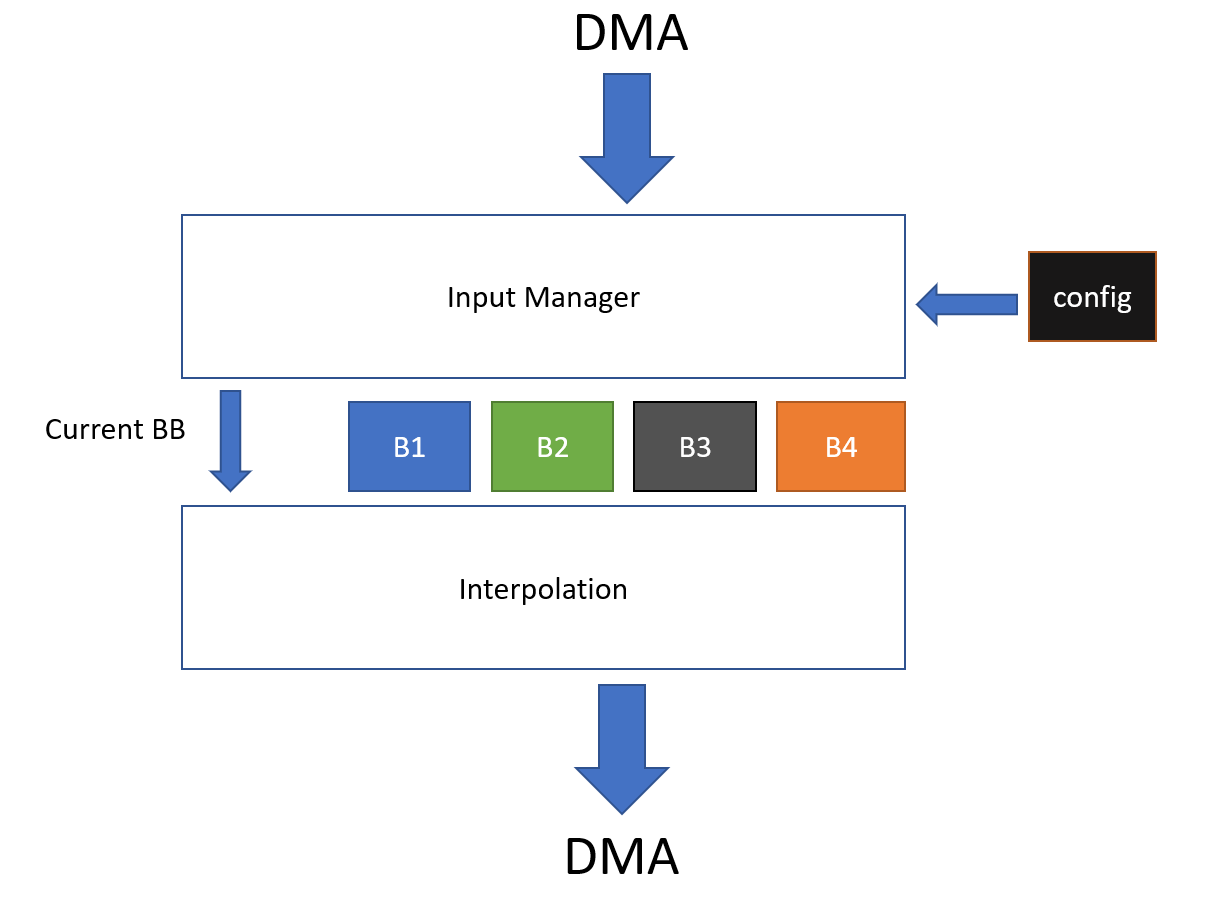
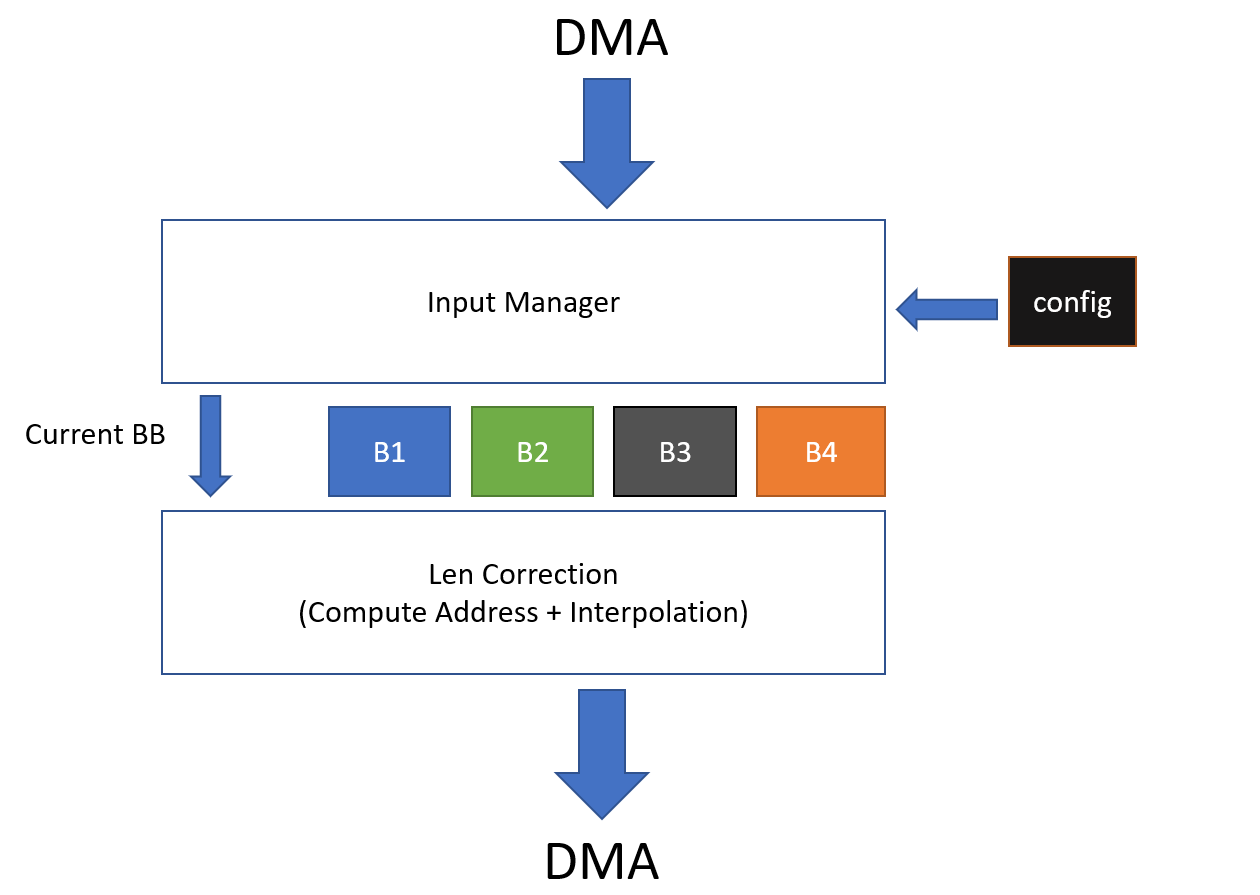
add len correction hls

diff --git a/vr_projection/len_correction_hls/len_correction_tb.cpp b/vr_projection/len_correction_hls/len_correction_tb.cpp
@@ -1,0 +1,221 @@
+#include <cmath>    // 对于 fabs
+#include <iostream>
+#include <fstream>
+#include <string>
+
+
+// #define FP32
+// #ifdef FP32
+#include "tile_color_optimizer_func.h"
+// #else
+// 	#include "tile_color_optimizer_func_fix.h"
+// #endif
+
+template<typename T>
+void load(hls::stream<T> &s, int load_num, std::ifstream &ifdata)
+{
+	// std::cout << " ...loading: " + dname << std::endl;
+//    assert(!data.fail());
+
+    int loaded_num = 0;
+    while(!ifdata.eof())
+    {
+        std::string line;
+        std::getline(ifdata, line);
+    //    std::cout << line << std::endl;
+
+        // std::cout << "line: " << line << std::endl;
+        float d=0;
+        if (line == "\n") {
+            std::cout << "Meet final \n" << std::endl;
+            break;
+        } else {
+            d = std::stof(line);
+        }
+        // std::cout << "d: " << d << std::endl;
+
+
+        // std::cout << "T(d): " << T(d) << std::endl;
+
+
+        s.write(T(d));
+        loaded_num = loaded_num + 1;
+        if(loaded_num == load_num) 
+            break;
+    }
+
+
+    assert(loaded_num == load_num);
+};
+
+int main()
+{
+
+    int image_tiles_num = 100;
+    int tile_num_one_time = 1;
+    std::ifstream ifa, ifb, ifc, ifd, ifk, ifl, ifref;
+    ifa.open("dump/a0.txt");
+    ifb.open("dump/b0.txt");
+    ifc.open("dump/c0.txt");
+    ifd.open("dump/d0.txt");
+    ifk.open("dump/k0.txt");
+    ifl.open("dump/l0.txt");
+    ifref.open("dump/ref0.txt");
+
+    std::ofstream hw_out;
+    #ifdef HW_COSIM
+        hw_out.open("dump/cosim_hw_out.txt", std::ios::out | std::ios::trunc);
+    #else
+        hw_out.open("dump/csim_hw_out.txt", std::ios::out | std::ios::trunc);
+    #endif
+
+    float acc_err = 0;
+    int count = 0;
+    float max_err = 0;
+    int max_ti = 0;  
+
+    for (int ti = 0; ti < image_tiles_num; ti+=tile_num_one_time) {
+        if (ti % 100 == 0)
+        {
+            std::cout << "progress: " << float(ti) / float(image_tiles_num) << std::endl;
+            std::cout << "current max_err: " << float(max_err) << std::endl;
+            std::cout << "current avg_err: " << acc_err / float(count) << std::endl;
+        }
+
+        hls::stream<abc_t> as("as"), bs("bs"), cs("cs");
+        hls::stream<dkl_t>  ds("ds"), ks("ks"), ls("ls");
+        hls::stream<rgb_t> ref("ref");
+        load(as, tile_num_one_time*4*4, ifa);
+        load(bs, tile_num_one_time*4*4, ifb);
+        load(cs, tile_num_one_time*4*4, ifc);
+        load(ds, tile_num_one_time*4*4, ifd);
+        load(ks, tile_num_one_time*4*4, ifk);
+        load(ls, tile_num_one_time*4*4, ifl);
+        load(ref, tile_num_one_time*4*4*3, ifref);
+
+        // Call Hardware
+        hls::stream<agg_inputs> is("is");
+        hls::stream<agg_outputs_srgb> os("os");
+
+        //Construct input
+        for(int i = 0; i < tile_num_one_time; i++)
+        {
+            agg_inputs in;
+            for(int j = 0; j < 16; j++)
+            {
+                in.as[j] = as.read();
+                // std::cout << "in.as[j]: " << in.as[j] << std::endl;
+                in.bs[j] = bs.read();
+                in.cs[j] = cs.read();
+                in.ds[j] = ds.read();
+                in.ks[j] = ks.read();
+                in.ls[j] = ls.read();
+            }
+            // print ins every bits
+            // print bits of as
+            // for(int i = 0; i < 16; i++)
+            // {
+            //     std::cout << "as: "<< in.as[i] << " " << in.as[i].range(15, 0) << " ";
+            // }
+            // std::cout << std::endl;
+            // for(int i = 0; i < 16; i++)
+            // {
+            //     std::cout << "bs: " << in.bs[i] << " " << in.bs[i].range(15, 0) << " ";
+            // }
+            // std::cout << std::endl;
+            // for(int i = 0; i < 16; i++)
+            // {
+            //     std::cout << "cs: " << in.cs[i] << " "<< in.cs[i].range(15, 0) << " ";
+            // }
+            // std::cout << std::endl;
+            // for(int i = 0; i < 16; i++)
+            // {
+            //     std::cout << "ds: " << in.ds[i] << " " << in.ds[i].range(15, 0) << " ";
+            // }
+            // std::cout << std::endl;
+            // for(int i = 0; i < 16; i++)
+            // {
+            //     std::cout << "ks: " << in.ks[i] << " "<< in.ks[i].range(15, 0) << " ";
+            // }
+            // std::cout << std::endl;
+            // for(int i = 0; i < 16; i++)
+            // {
+            //     std::cout << "ls: " << in.ls[i] << " "<< in.ls[i].range(15, 0) << " ";
+            // }
+            // std::cout << std::endl;
+
+            is.write(in);
+        } // end
+
+
+        // Call the top function
+        // if (ti == 363){
+            for (int i = 0; i < tile_num_one_time; i++)
+        {
+            tile_color_optimizer_func(os, is);
+        }
+        // }
+
+        // std::cout << "os.size(): " << os.size() << std::endl;
+        // std::cout << "ref.size(): " << ref.size() << std::endl;
+
+
+        // Compare output
+        // if(ti == 363){
+        for (int i = 0; i < tile_num_one_time; i++)
+        {
+            agg_outputs_srgb _os;
+            _os = os.read();
+            for(int i2 = 0; i2 < 16; i2++)
+            {
+                for (int j = 0; j < 3; j++) { //r,g,b]
+                    rgb_t ref_read = ref.read();
+                    float ref_read_f = float(ref_read);
+                    if (ref_read_f < 0) {
+                        ref_read_f = 0;
+                    } else if (ref_read_f > 1) {
+                        ref_read_f = 1;
+                    }
+                    if (ref_read_f < 0.0031308) {
+                        ref_read_f = ref_read_f * 12.92 * 255;
+                    } 
+                    else {
+                        ref_read_f = (1.055 * std::pow(ref_read_f, 1.0/2.4) - 0.055)*255;
+                    }
+                    ap_uint<8> ref_read_uint8 = ap_uint<8>(ref_read_f);
+
+                    // std::cout << "ref.read(): " << float(ref_read) << std::endl;
+                    // std::cout << "ref_read_f: " << ref_read_f << std::endl;
+                    // std::cout << "ref_read_uint8: " << ref_read_uint8 << std::endl;
+                    // std::cout << "_os.rgb[i2][j]: " << _os.rgb[i2][j] << std::endl;
+
+                    float err = std::fabs( float(_os.rgb[i2][j] - ref_read_uint8) ); 
+
+                    if(hw_out.is_open())
+                    {
+                       hw_out << int(_os.rgb[i2][j]) << " ";
+                    }
+                    else
+                    {
+                       std::cout << "Unable to open file" << std::endl;
+                    }
+
+                    if (err > max_err) {
+                        max_err = err;
+                        max_ti = ti;
+                    }
+                    acc_err += err;
+                    count += 1;
+                }
+            }
+        }
+        // }
+    }
+
+
+
+    std::cout << "final avg_err: " << acc_err / float(count) << std::endl;
+    std::cout << "final max_err: " << float(max_err) << std::endl;
+    std::cout << "final max_ti: " << max_ti << std::endl;
+
+}

diff --git a/vr_projection/len_correction_hls/len_correction_func.h b/vr_projection/len_correction_hls/len_correction_func.h
@@ -1,0 +1,44 @@
+#include <hls_stream.h>
+#include <ap_int.h>
+#include <ap_fixed.h>
+#include <hls_math.h>
+
+
+
+
+namespace vr_prototype
+{
+
+	template <int opt_channel = Color::BLUE, int color1 = Color::RED, int color2 = Color::GREEN>
+	// TODO: make template automatically inferenced
+	class Len_corrector
+	{
+		public:
+		// Init Config file (hard coded)
+		
+			
+		void operator()(hls::stream<agg_outputs_srgb> &dout, hls::stream<agg_inputs> &din) {
+			// Partitioning const arrays inside the class
+			#pragma HLS ARRAY_PARTITION variable=max_vec_rgb dim=0 complete
+			#pragma HLS ARRAY_PARTITION variable=min_vec_rgb dim=0 complete
+			#pragma HLS ARRAY_PARTITION variable=max_vec_dkl dim=0 complete
+			#pragma HLS ARRAY_PARTITION variable=min_vec_dkl dim=0 complete
+			#pragma HLS ARRAY_PARTITION variable=DKL2RGB dim=0 complete
+			#pragma HLS DATAFLOW disable_start_propagation
+
+			// Input Management  184 rows, 960 columns
+			ap_uint<24> pixel_buffer_1[92][480];
+			ap_uint<24> pixel_buffer_2[92][480];
+			ap_uint<24> pixel_buffer_2[92][480];
+			ap_uint<24> pixel_buffer_2[92][480];
+			
+			input_manage(din, pixel_buffer_1, pixel_buffer_2, pixel_buffer_3, pixel_buffer_4);
+
+			// Len correction using Biliner interpolation
+			len_correction(dout, pixel_buffer_1, pixel_buffer_2, pixel_buffer_3, pixel_buffer_4);
+			
+		}
+	}
+
+}
+

diff --git a/vr_projection/len_correction_hls/len_correction_func.cpp b/vr_projection/len_correction_hls/len_correction_func.cpp
@@ -1,0 +1,19 @@
+#include "len_correction_func.h"
+
+
+void len_correction_func(
+	hls::stream< agg_outputs_srgb > &dout,
+	hls::stream< agg_inputs > &din
+	)
+{	// HLS INTERFACE stram setting
+	#pragma HLS AGGREGATE compact=bit variable=dout
+	#pragma HLS AGGREGATE compact=bit variable=din
+	#pragma HLS INTERFACE axis register both port=dout
+	#pragma HLS INTERFACE axis register both port=din
+	#pragma HLS INTERFACE ap_ctrl_none port=return
+
+	// Initialization
+	vr_prototype::Len_corrector len_corrector; // Blue opt
+	#pragma HLS DATAFLOW disable_start_propagation
+	len_corrector(dout, din);
+}
